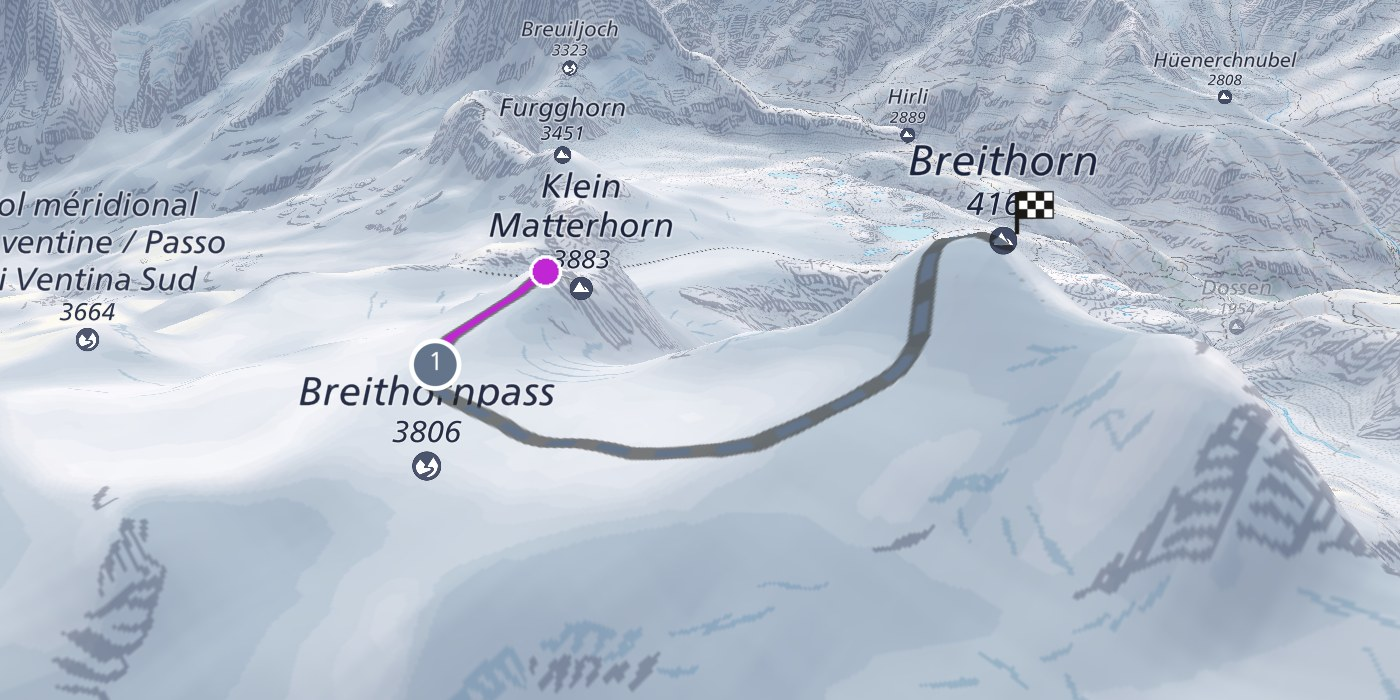
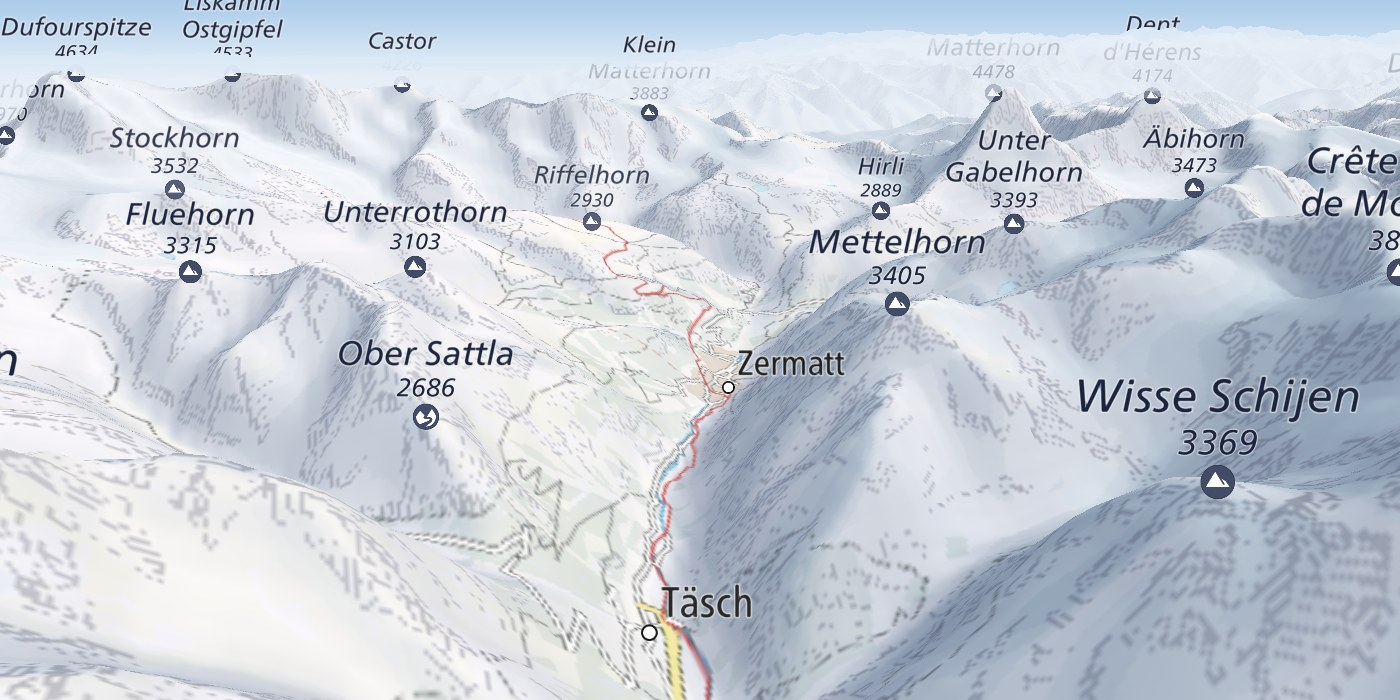
SNOW-1468: Frame the homepage 3D pictures up the Mattertal
Hugo sent a better framing (7 Nov 2026): up the Mattertal past Täsch
and Zermatt to the Matterhorn, plain relief, no route. Recapture both
pictures at that camera and move HOME_3D_CAMERA and the alt text to it.

Claude-Session: https://claude.ai/code/session_01Sp38HnJX3mnWXQbiFvdryu

diff --git a/apps/public/templates/public/partials/_home_3d_card.html b/apps/public/templates/public/partials/_home_3d_card.html
@@ -3,7 +3,7 @@ apps/public/templates/public/partials/_home_3d_card.html — the homepage's 3D c
 (SNOW-1454).
 
 Full width under the hero and above the daily read (option A, Hugo, 6 Nov
-2026): a picture of a ski tour on the 3D map (the Breithorn), then "New · 3D", the heading,
+2026): a picture of the 3D map up the Mattertal to the Matterhorn, then "New · 3D", the heading,
 one line, the coverage line and a primary CTA into the map in 3D. The copy
 promises nothing Terrain-only, because most readers who see the card do not
 have Terrain mode (SNOW-1451). The coverage line is the map's own msgid, so
@@ -34,7 +34,7 @@ Context:
                 width="780"
                 height="1040"
                 class="block w-full h-auto aspect-[3/4] md:aspect-[2/1] object-cover object-top"
-                alt="{% trans 'The Snowdesk map in 3D: a ski tour from the Klein Matterhorn to the summit of the Breithorn, drawn over the relief.' %}"
+                alt="{% trans 'The Snowdesk map in 3D: the Mattertal in relief, from Täsch up past Zermatt to the Matterhorn.' %}"
             >
         </picture>
     </a>

diff --git a/tests/public/test_homepage.py b/tests/public/test_homepage.py
@@ -16,7 +16,7 @@ Covers:
     built for a map-state 301.
   - The 3D branding, only for a reader who can open the map in 3D (map_3d,
     SNOW-1451): the nav wordmark wearing specs, and the 3D card under the
-    hero (SNOW-1454) linking to the map in 3D over the Breithorn.
+    hero (SNOW-1454) linking to the map in 3D up the Mattertal.
 """
 
 from __future__ import annotations
@@ -92,7 +92,7 @@ class TestHomepage:
 class TestHomepage3dBranding:
     """SNOW-1454: the 3D card shows only to readers who can open the map in 3D."""
 
-    MAP_3D_URL = "/map/?mode=terrain&view=3d&at=7.725,45.947,12.55,62,315"
+    MAP_3D_URL = "/map/?mode=terrain&view=3d&at=7.748,46.012,10.9,72,197"
     # As the template renders it, autoescaped.
     MAP_3D_HREF = MAP_3D_URL.replace("&", "&amp;")
 
@@ -160,7 +160,7 @@ class TestHomepage3dBranding:
         assert "img/home/3d-desktop.jpg" in card
         assert 'width="780"' in card
         assert 'height="1040"' in card
-        assert 'alt="The Snowdesk map in 3D: a ski tour' in card
+        assert 'alt="The Snowdesk map in 3D: the Mattertal' in card
         assert 'loading="lazy"' not in card
 
     @pytest.mark.parametrize("flag", [True, False])

diff --git a/apps/public/views.py b/apps/public/views.py
@@ -384,12 +384,12 @@ def _carries_map_state(request: HttpRequest) -> bool:
 
 # SNOW-1454: the camera the homepage's 3D card opens the map on, as
 # ``?at=lng,lat,zoom,pitch,bearing`` (map_view_core.readCamera): looking
-# north-west over the Breithorn and the Klein Matterhorn, the view its
-# desktop picture shows with swisstopo's Breithorn ski tour draped on it
-# (Hugo, 7 Nov 2026). A bare ?view=3d would boot from the reader's
-# stored viewport, which may lie outside Switzerland (then flat) or be
-# nowhere at all (then z9 over the middle of the country).
-HOME_3D_CAMERA = (7.725, 45.947, 12.55, 62, 315)
+# up the Mattertal past Täsch and Zermatt to the Matterhorn, the view its
+# desktop picture shows (Hugo's own framing, 7 Nov 2026). A bare ?view=3d
+# would boot from the reader's stored viewport, which may lie outside
+# Switzerland (then flat) or be nowhere at all (then z9 over the middle of
+# the country).
+HOME_3D_CAMERA = (7.748, 46.012, 10.9, 72, 197)
 
 
 def _home_3d_url() -> str:

diff --git a/apps/design_system/design_tokens.py b/apps/design_system/design_tokens.py
@@ -1713,8 +1713,8 @@ COMPONENT_CATEGORIES: tuple[FoundationCategory, ...] = (
         slug="home-3d-card",
         label="Home 3D card",
         description=(
-            "The homepage's 3D card (SNOW-1454): a picture of a ski tour on the "
-            "3D map, the coverage line and a primary CTA into /map/ in 3D, "
+            "The homepage's 3D card (SNOW-1454): a picture of the 3D map up "
+            "the Mattertal, the coverage line and a primary CTA into /map/ in 3D, "
             "framed on HOME_3D_CAMERA. Only for readers in map_3d."
         ),
         kind="components",

diff --git a/apps/design_system/_component_fixtures.py b/apps/design_system/_component_fixtures.py
@@ -753,7 +753,7 @@ HOME_3D_CARD_VARIANTS: tuple[dict[str, Any], ...] = (
         "caption": "Under the hero, for a reader who can open the map in 3D",
         "solo": True,
         "context": {
-            "map_3d_url": "/map/?mode=terrain&view=3d&at=7.725,45.947,12.55,62,315",
+            "map_3d_url": "/map/?mode=terrain&view=3d&at=7.748,46.012,10.9,72,197",
         },
     },
 )

diff --git a/docs/testing-scenarios.md b/docs/testing-scenarios.md
@@ -45,7 +45,7 @@ SNOW-314 until the marketing page took the root — see
 | Step | Action | Expected Result |
 |------|--------|-----------------|
 | 1 | Navigate to http://localhost:8000/ signed out | A static page loads: the "Stay avi-savvy" eyebrow and the "Know your line before you leave." heading, the daily read on a rated day ("Across the Alps today"), four cards (current conditions, route planning, weather, trips), each with a still of the app, then the offline line, the authority caveat and an "Open the map" primary button. No 3D card, no MapLibre canvas, no map JavaScript |
-| 1a | SNOW-1454: sign in as `admin@snowdesk.dev` (in `map_3d`) and reload | A full-width card sits between the heading and the daily read: a picture of the 3D map, "New · 3D", "See the mountain before you go", one line, "3D covers Switzerland for now" and an "Open the map in 3D" button. Pressing it opens /map/ tilted over the Breithorn, looking north-west past the Klein Matterhorn, with `view=3d` in the address bar |
+| 1a | SNOW-1454: sign in as `admin@snowdesk.dev` (in `map_3d`) and reload | A full-width card sits between the heading and the daily read: a picture of the 3D map, "New · 3D", "See the mountain before you go", one line, "3D covers Switzerland for now" and an "Open the map in 3D" button. Pressing it opens /map/ tilted up the Mattertal, looking past Zermatt to the Matterhorn, with `view=3d` in the address bar |
 | 2 | Look at the page chrome | A thin top nav bar with a "Snowdesk" wordmark (no back link) sits above the page |
 | 3 | Clear `localStorage` for the site, then click "Open the map" | http://localhost:8000/map/ loads: the full-frame map, with no card or panel over it |
 | 4 | Wait for the danger colours to paint, then a moment more | The welcome card (`#map-tour-offer`) slides in at the bottom left (full width at the bottom on a phone): "Explore Snowdesk", with three rows — "Find a resort", "Explore an example route" (only once `set_example_route --commit` has run) and "Explore the map" — and a "×" (Scenario MS7) |

diff --git a/docs/decisions/the-homepage-is-not-the-map.md b/docs/decisions/the-homepage-is-not-the-map.md
@@ -65,11 +65,9 @@ every existing install a different app, so only `start_url` moves.
   phone capture for the 3D card, SNOW-1454) are stills and go stale as the
   app changes. Re-capture them at the same ratios when the app's appearance
   changes. The 3D card's pair is taken at `HOME_3D_CAMERA`
-  (`apps/public/views.py`), the camera its link opens. Hugo's brief (7 Nov
-  2026): plain relief with a route on it, and no resorts, weather or danger
-  wash. The route is swisstopo's Breithorn ski tour from the Klein
-  Matterhorn (the one the fly-by video uses), saved as a drawn route for the
-  dev superuser; every overlay but the routes is hidden, along with the
-  basemap's lifts, POIs and borders. The phone capture is centred a little
-  further east (7.7295, 45.9462, z12.7, pitch 60) so its narrow frame holds
-  the whole route. Headless Chromium draws it against the dev server.
+  (`apps/public/views.py`), the camera its link opens: up the Mattertal past
+  Zermatt to the Matterhorn, framed on a screenshot Hugo sent (7 Nov 2026).
+  The brief: plain relief, with no resorts, weather or danger wash, so every
+  overlay is hidden, along with the basemap's lifts, POIs and borders. The
+  phone capture uses the same camera at zoom 10.75. Headless Chromium draws
+  it against the dev server.
